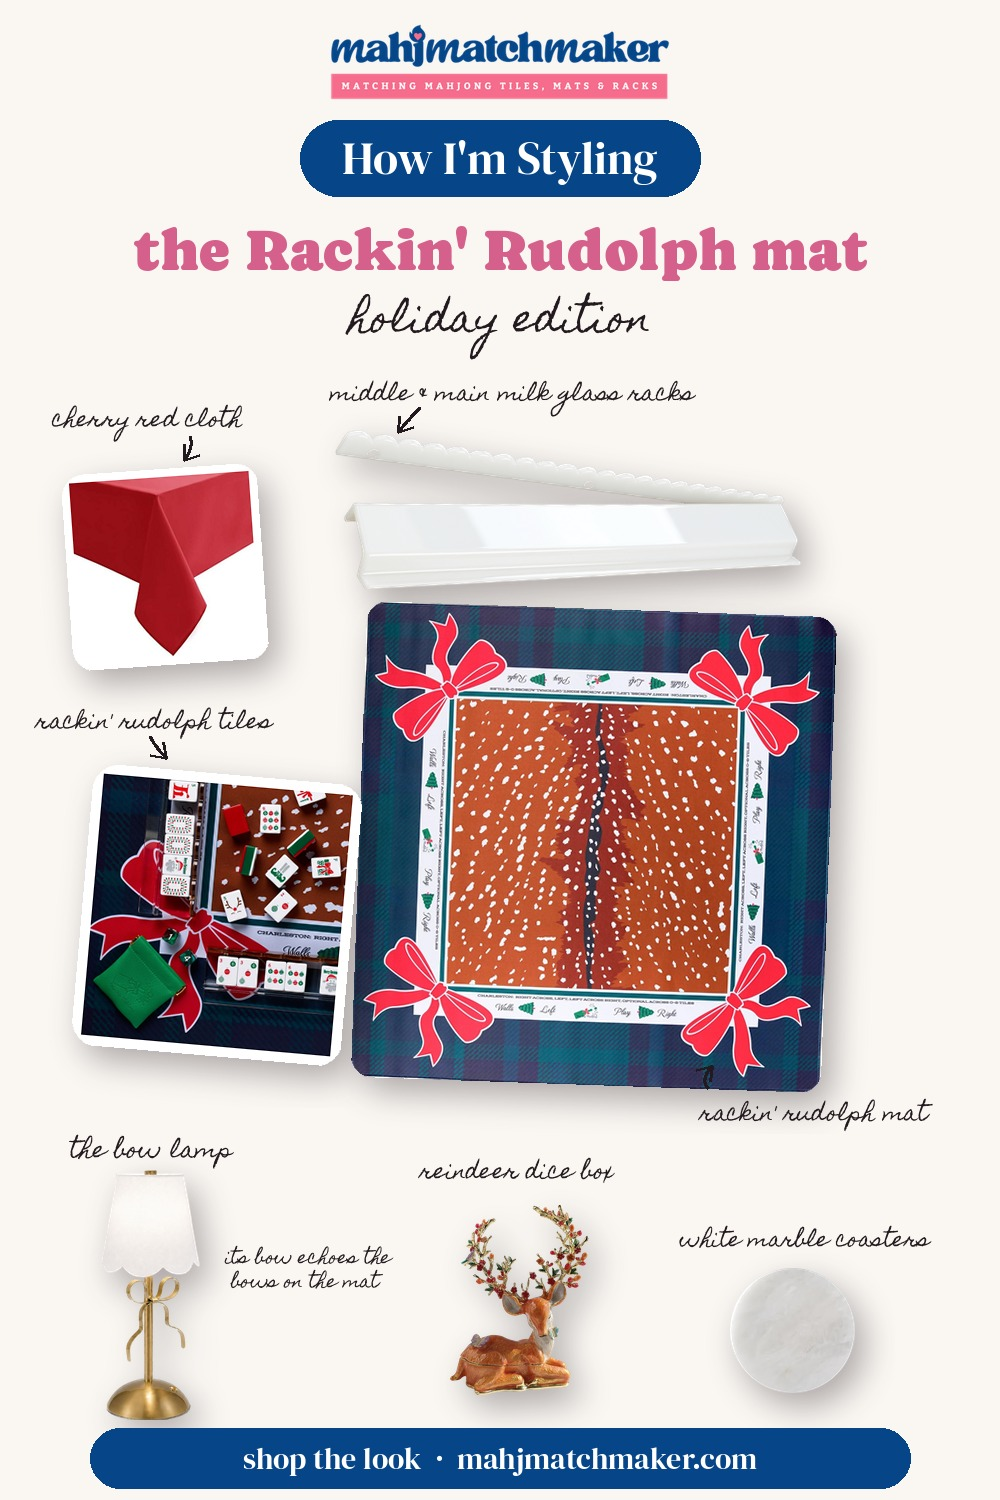
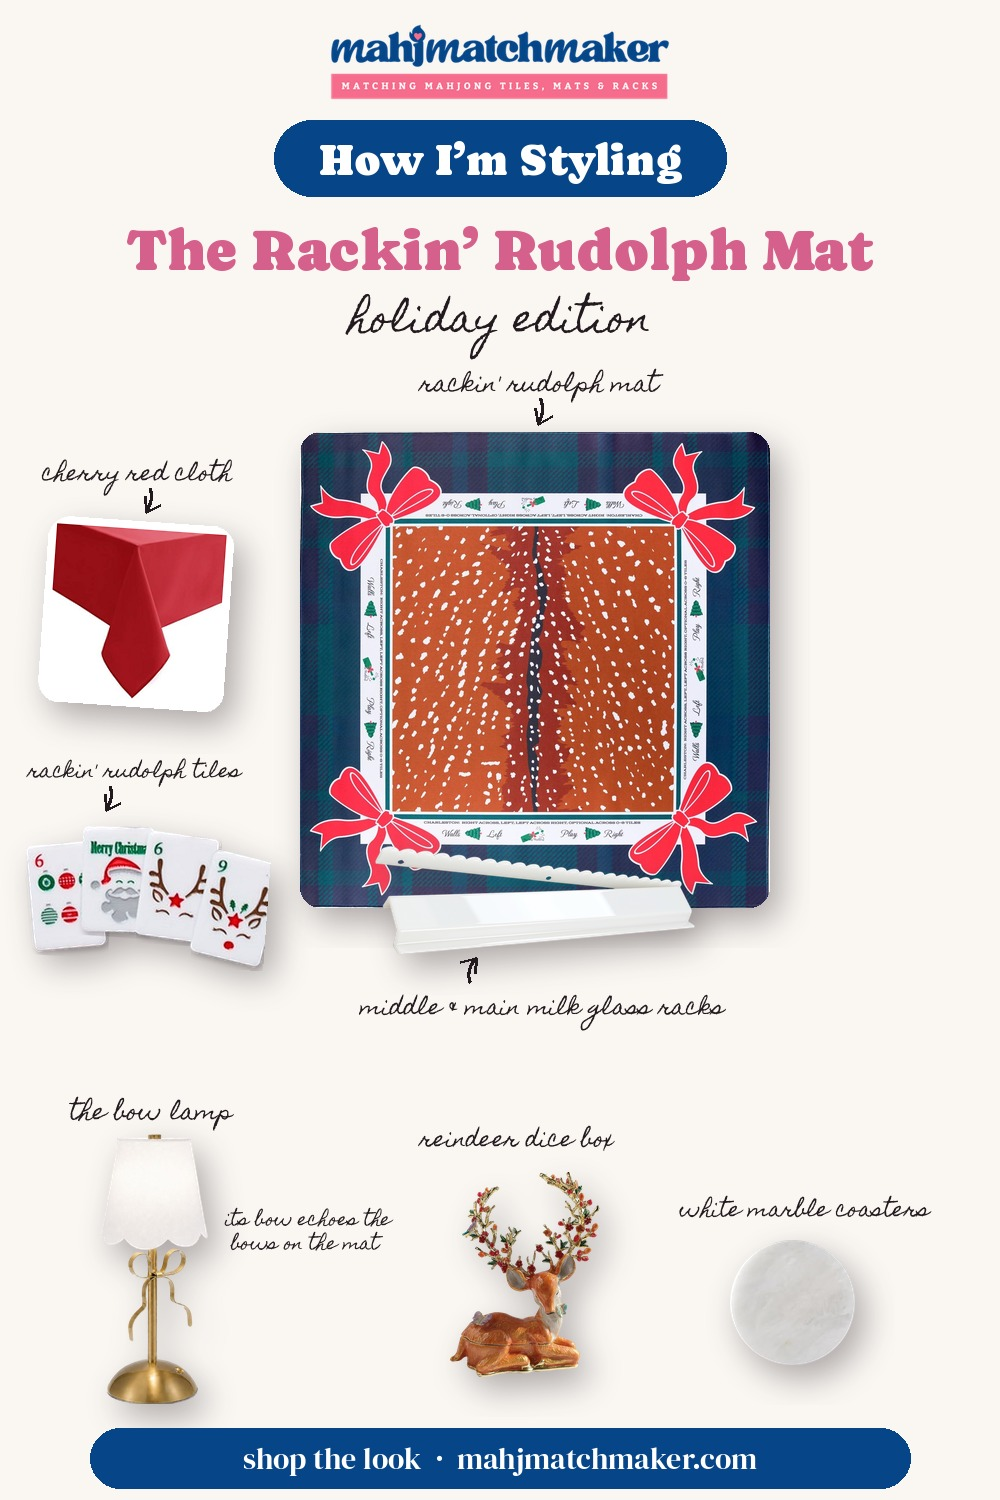
Rackin' Rudolph board: mat up top, Milk Glass rack on the border, tile-face cutouts, Caprasimo header
Claude-Session: https://claude.ai/code/session_014aKoC1ZMdZPjGkZ9kHhnLk

diff --git a/assets/blog/holiday-tablescape-rudolph/mood_rr2.py b/assets/blog/holiday-tablescape-rudolph/mood_rr2.py
@@ -1,0 +1,41 @@
+exec(open('../hall/pin.py').read())
+W,Hh=1000,1500
+BG=(250,247,243,255); INK=(34,26,30); NAVY=(6,69,135); PINK=(214,96,140)
+c=Image.new('RGBA',(W,Hh),BG); d=ImageDraw.Draw(c)
+def lab(t,x,y,s=22,anchor='la'): ImageDraw.Draw(c).text((x,y),t,font=font('HomemadeApple.ttf',s),fill=INK,anchor=anchor)
+def arr(p0,p1,p2): arrow(ImageDraw.Draw(c),p0,p1,p2,col=INK,w=3)
+logo=fit(load(BR+'mahjmatchmaker-wordmark.png'),w=340); c.alpha_composite(logo,((W-340)//2,24))
+_pf=font('Caprasimo.ttf',44); _pt="How I’m Styling"; _pw=d.textlength(_pt,font=_pf)+90
+d.rounded_rectangle((W//2-_pw/2,120,W//2+_pw/2,196),38,fill=NAVY)
+d.text((W//2,160),_pt,font=_pf,fill=(255,255,255),anchor='mm')
+d.text((W//2,250),"The Rackin’ Rudolph Mat",font=font('Caprasimo.ttf',58),fill=PINK,anchor='mm')
+d.text((W//2,322),'holiday edition',font=font('HomemadeApple.ttf',38),fill=INK,anchor='mm')
+# mat up top, label above with arrow down
+lab("rackin' rudolph mat",420,362,s=22); arr((540,398),(546,410),(538,424))
+MS=470; MX,MY=300,432
+m=load('cut/mat_rr.jpg').resize((MS,int(MS*1692/1670)),Image.LANCZOS)
+mk=Image.new('L',m.size,0); ImageDraw.Draw(mk).rounded_rectangle((0,0,m.width-1,m.height-1),20,fill=255); m.putalpha(mk)
+place(c,m,MX,MY)
+mb=MY+m.height
+# milk glass rack set laid over the bottom tartan border
+r=fit(load('cut/rack_milkglass.png'),w=320); place(c,r,MX+75,mb-62,rot=0)
+lab('middle & main milk glass racks',360,mb+78,s=21); arr((470,mb+74),(466,mb+62),(476,mb+50))
+# left: cloth ; right: tiles
+lab('cherry red cloth',42,452,s=21); arr((150,488),(154,500),(146,512))
+cl=card(load('raw/t_31a3RZHWCgL.jpg'),170,170,r=22,border=8); place(c,cl,36,514,rot=-4)
+lab("rackin' rudolph tiles",28,752,s=19); arr((110,786),(114,798),(106,810))
+tf=fit(load('cut/tiles_fan.png'),w=245); place(c,tf,18,818,rot=-4)
+# bottom row
+Y=1090
+lab('the bow lamp',70,Y,s=22)
+lp=fit(load('cut/lamp_bow.png'),h=270); place(c,lp,100,Y+44)
+lab('its bow echoes the',225,Y+112,s=17); lab("bows on the mat",231,Y+136,s=17)
+lab('reindeer dice box',420,Y+28,s=21)
+db=fit(load('cut/deer_box.png'),h=205); place(c,db,450,Y+82)
+lab('white marble coasters',680,Y+100,s=20)
+co=fit(load('cut/coaster_marble.png'),w=125); place(c,co,730,Y+150)
+d=ImageDraw.Draw(c)
+d.rounded_rectangle((90,1428,910,1488),30,fill=NAVY)
+d.text((W//2,1458),'shop the look  ·  mahjmatchmaker.com',font=font('DMSerif.ttf',30),fill=(255,255,255),anchor='mm')
+c.convert('RGB').save('out/holiday-mahjong-table-rackin-rudolph-shop-the-look.jpg',quality=92)
+print('mat bottom',mb)
